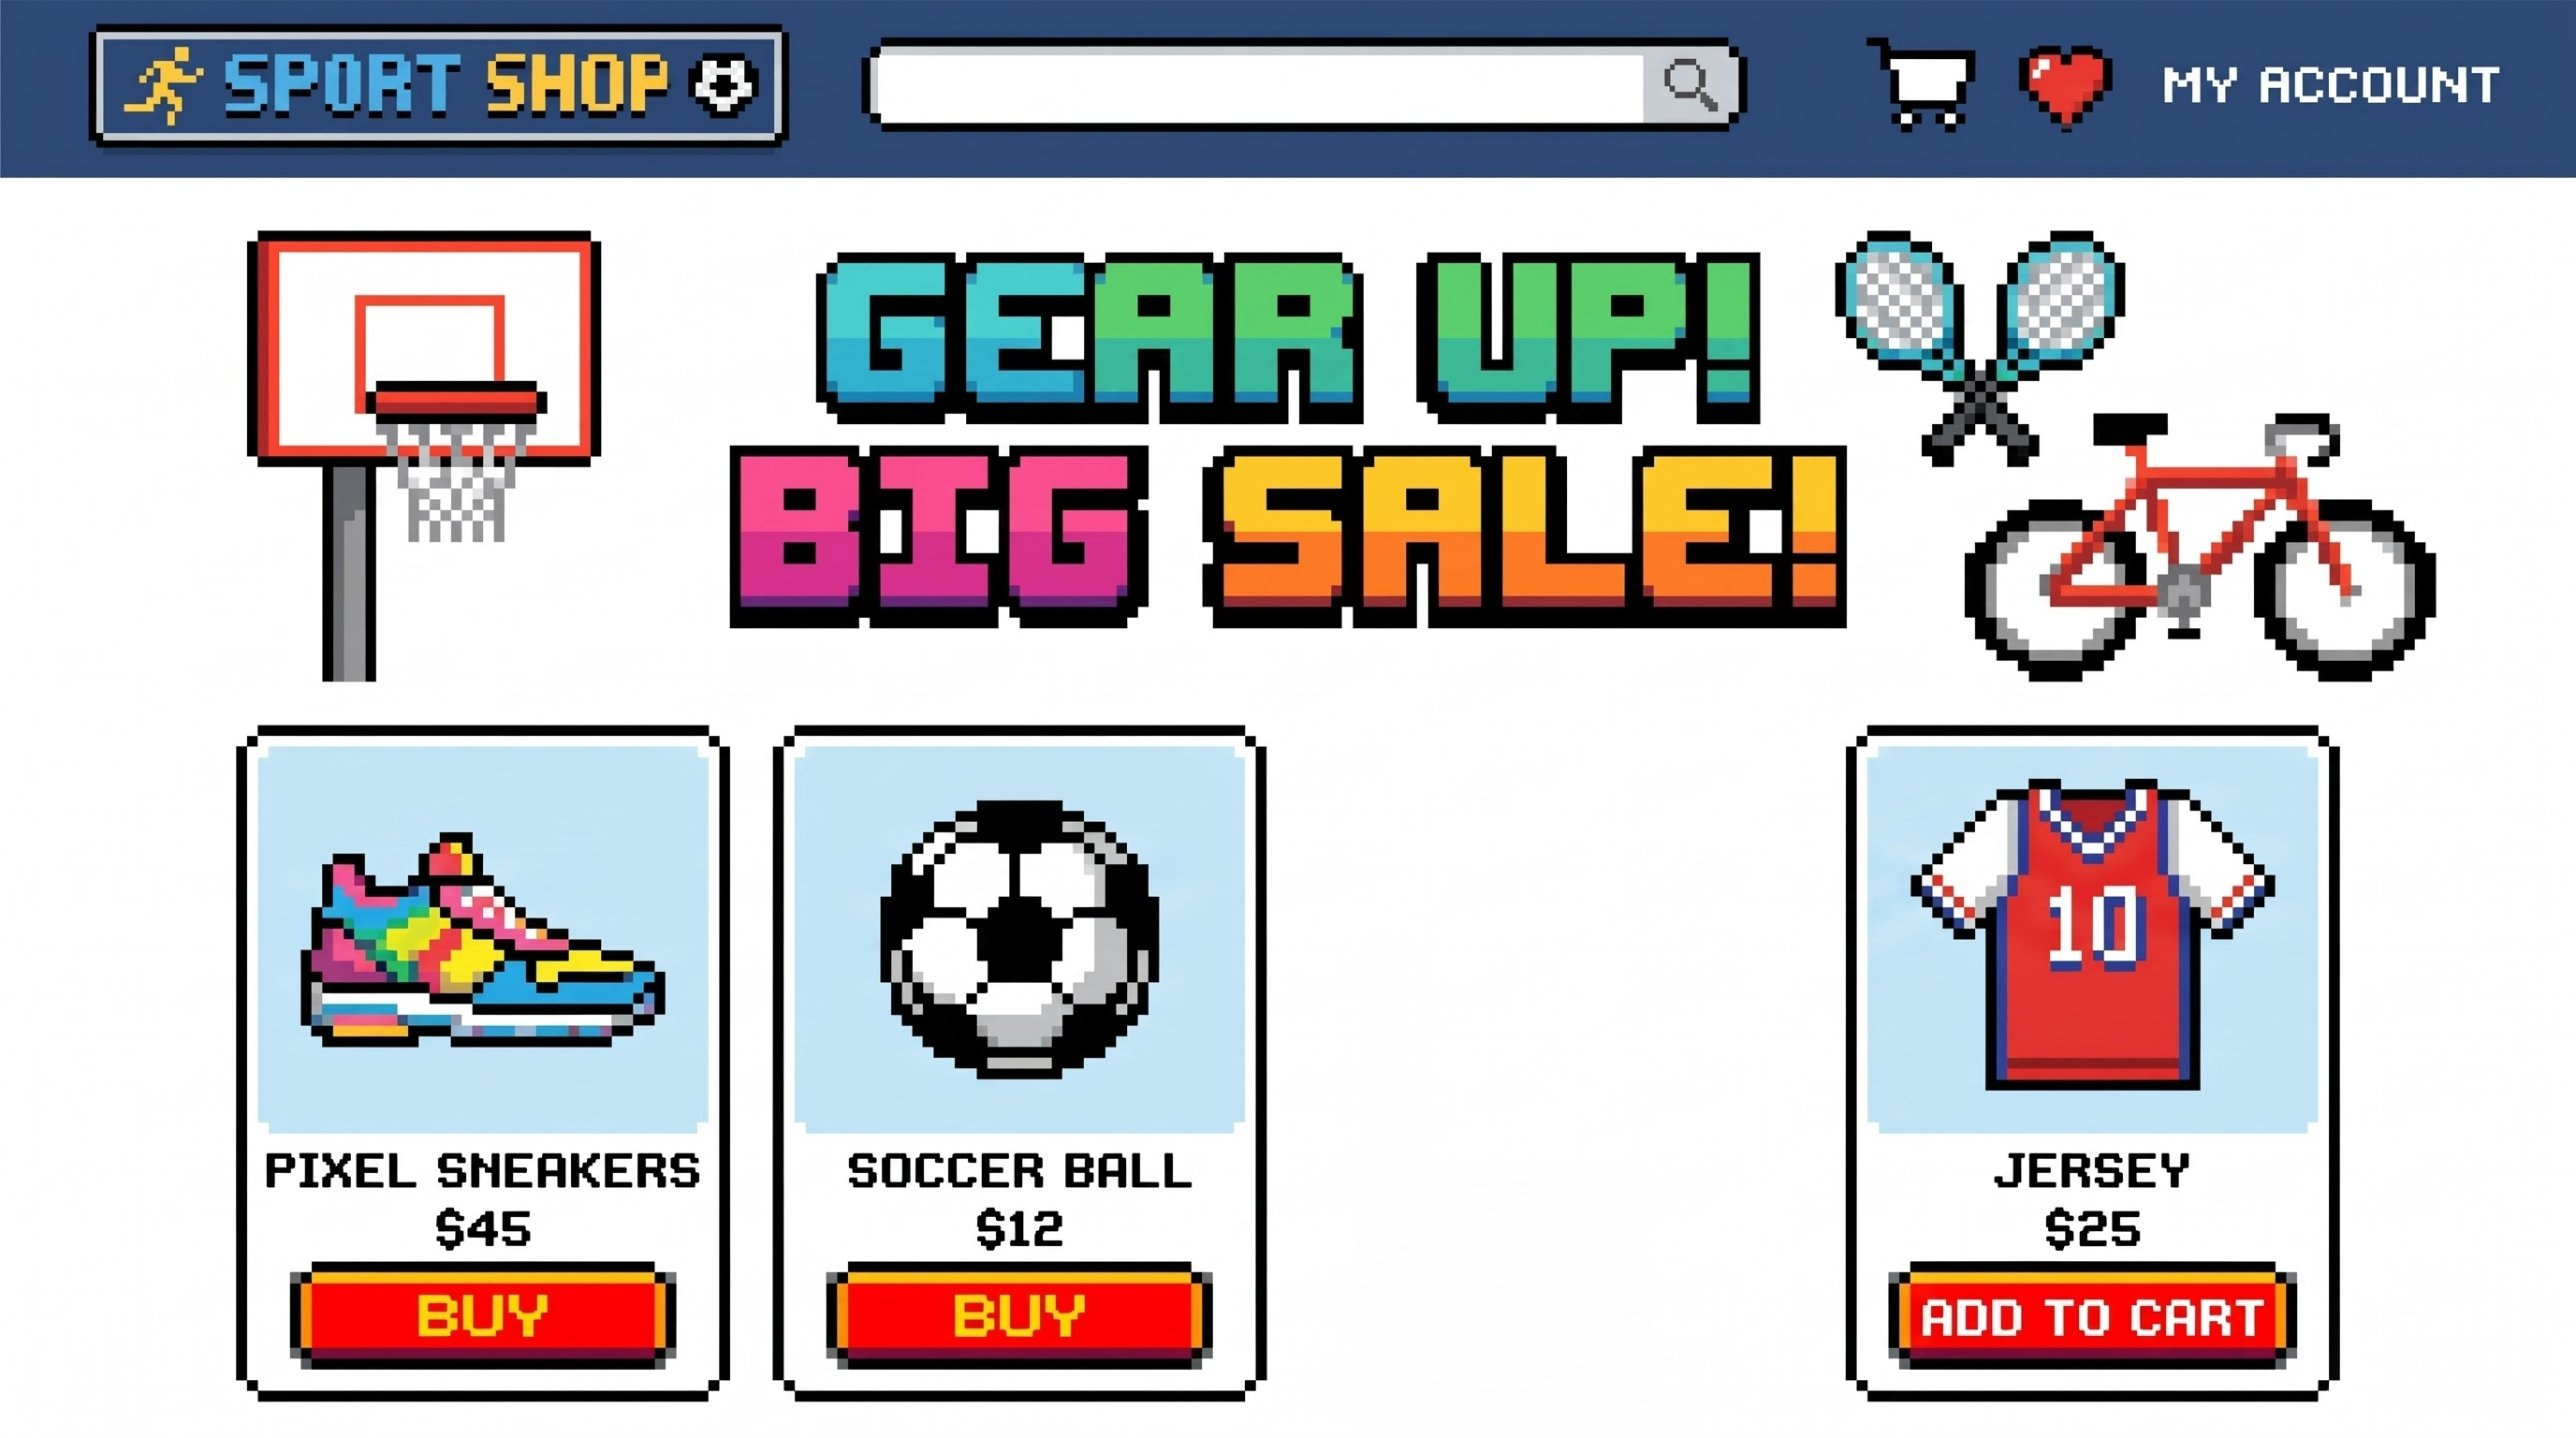
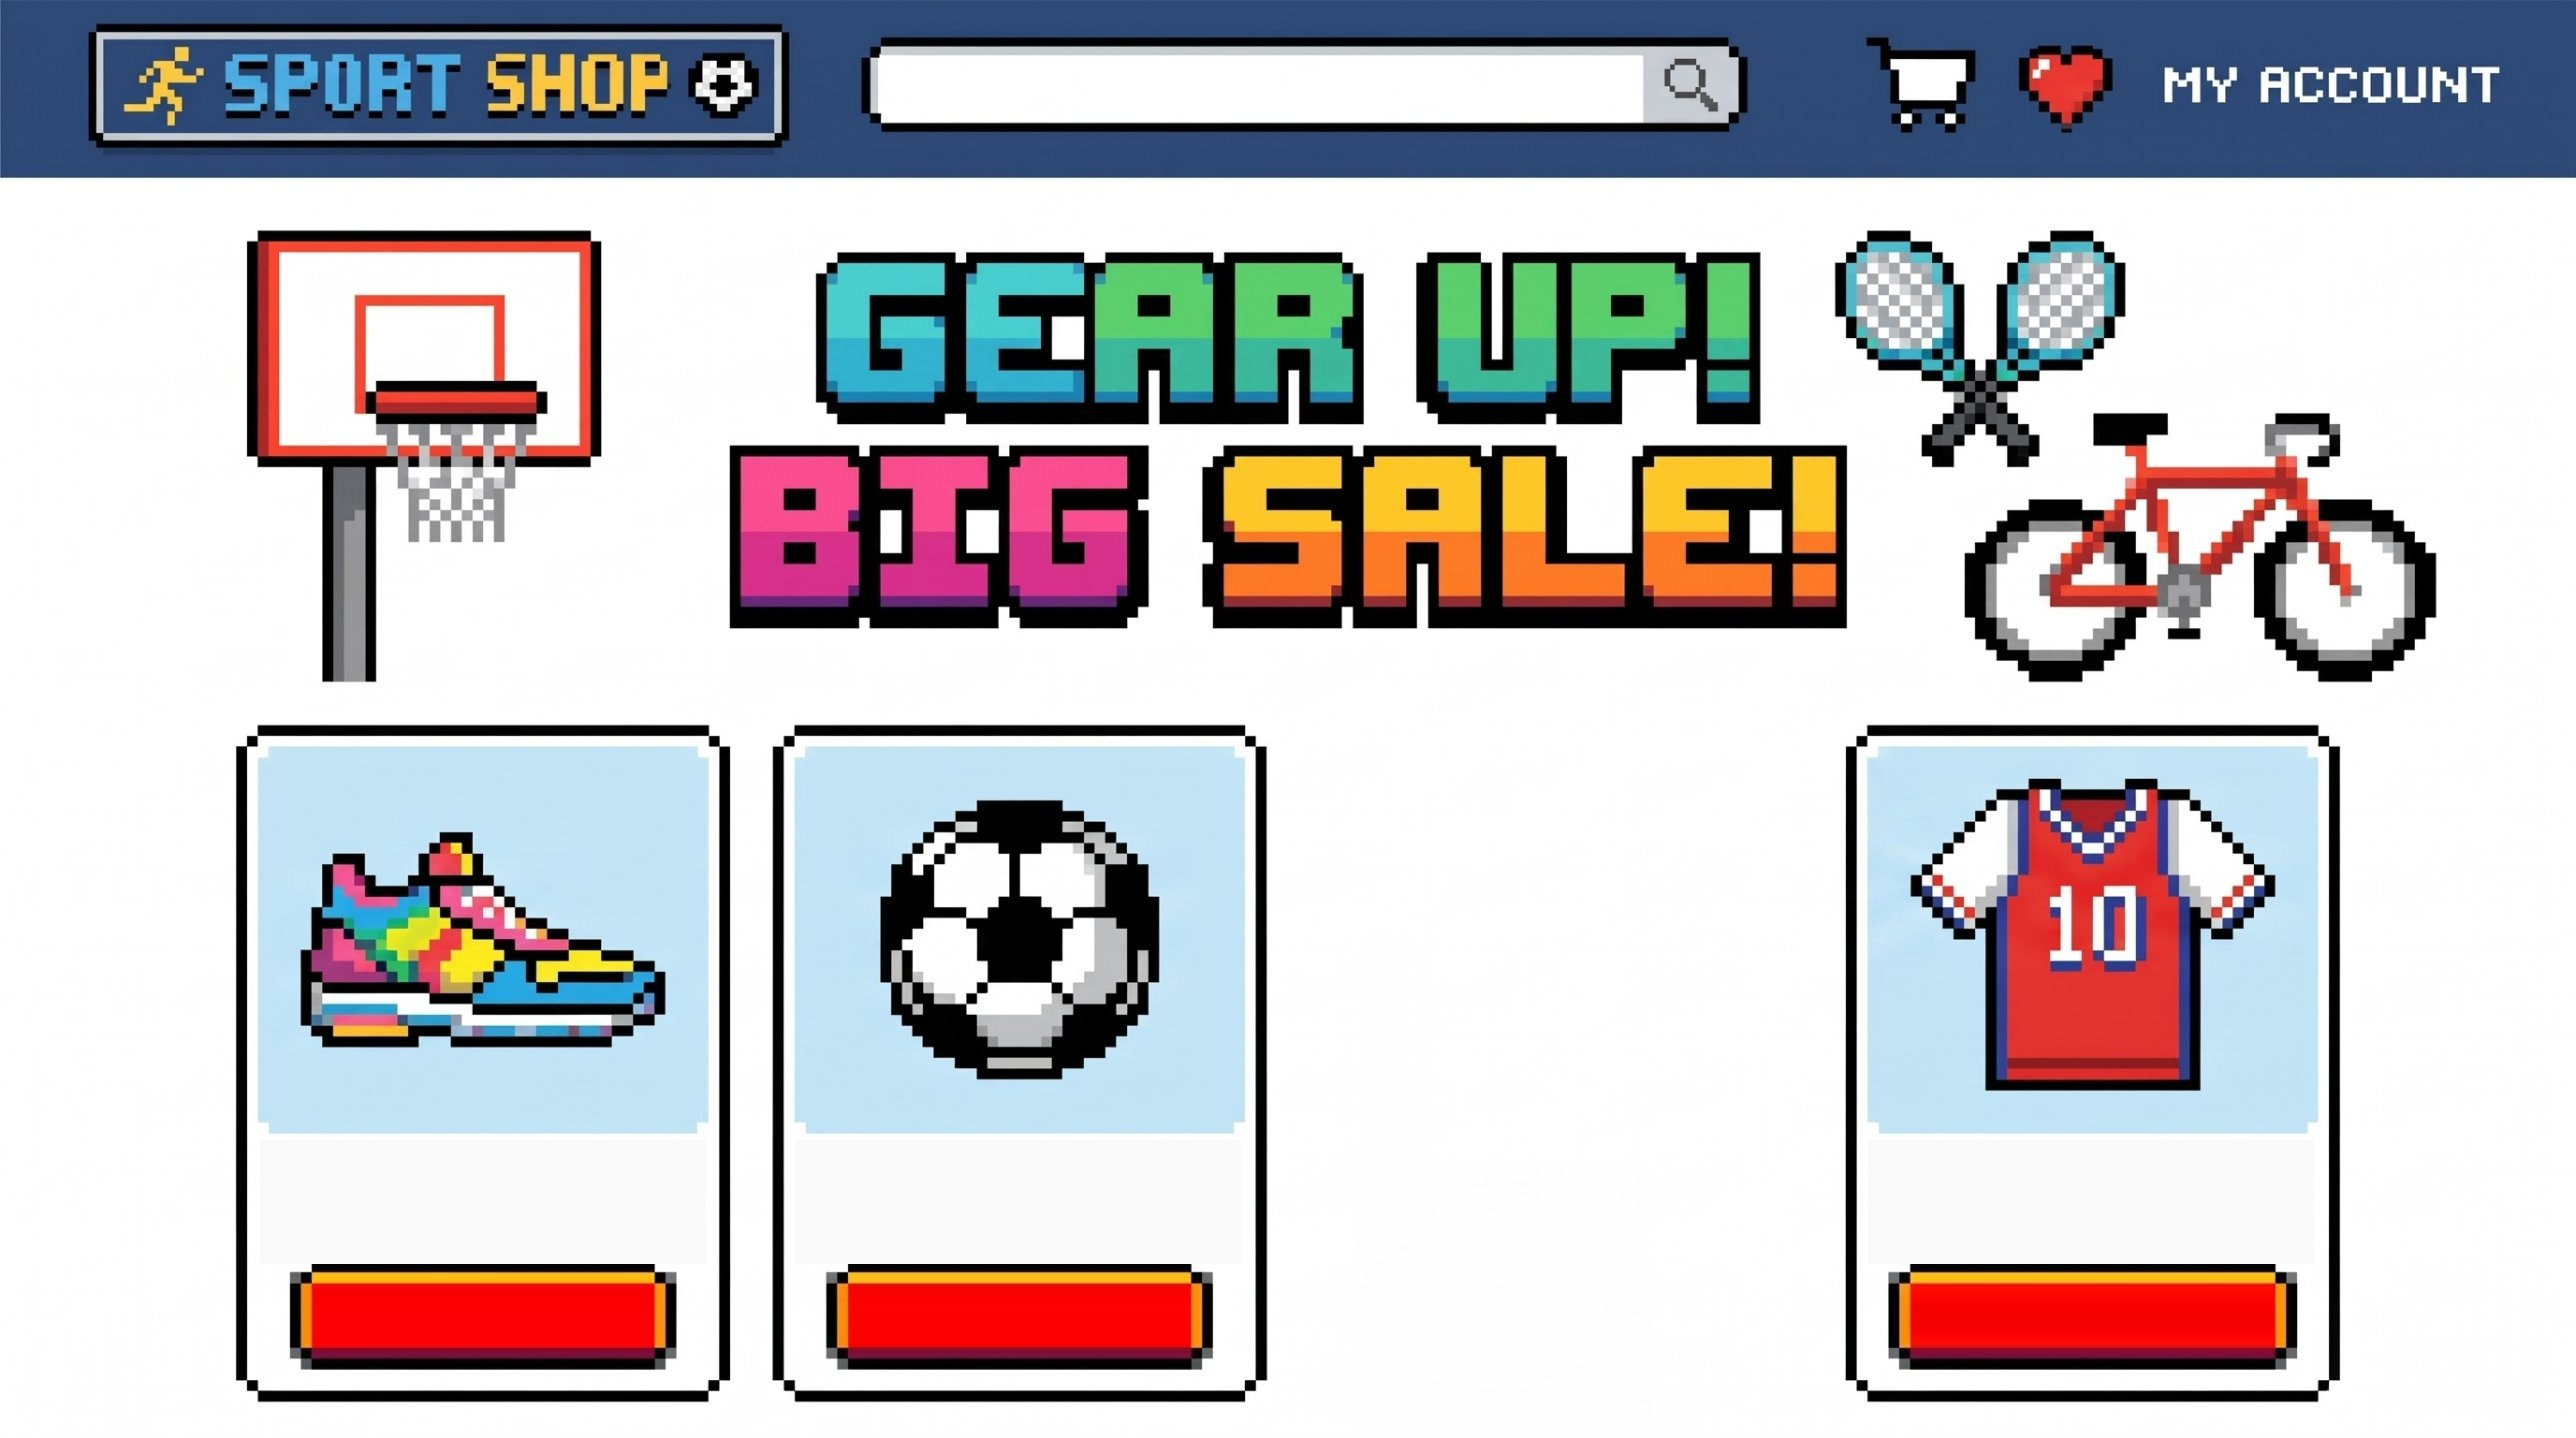
Sklep: napisy BUTY/PIŁKA/KOSZULKA i WEJDŹ (EN: SNEAKERS/FOOTBALL/JERSEY, ENTER), bez cen; w koszulkach strzałka do sklepu i WYJDŹ
Claude-Session: https://claude.ai/code/session_01Y9XNosS9qXxorLv9Jh2D4n

Changed region(s): [[0.7453, 0.7955, 0.9006, 0.9485], [0.0932, 0.7955, 0.2795, 0.9485], [0.3106, 0.7955, 0.4658, 0.9485]]

diff --git a/index.html b/index.html
@@ -242,11 +242,15 @@
   #sfront .fcard { position: absolute; padding: 0; background: none; border: 0; cursor: pointer; border-radius: 6px; }
   #sfront .fcard.sel { box-shadow: 0 0 0 4px #ff3fae, 0 0 0 7px #000, 0 0 18px 6px rgba(255,63,174,.55); animation: fsel .5s steps(2) infinite; } @keyframes fsel { 50% { box-shadow: 0 0 0 4px #ff8ad0, 0 0 0 7px #000, 0 0 22px 8px rgba(255,63,174,.75); } }
   #sfront .fx { position: absolute; right: .8%; top: 1.6%; width: 4.2%; aspect-ratio: 1; font: clamp(9px, 1.3vw, 16px) "Press Start 2P", monospace; color: #fff; background: #e8302a; border: 3px solid #000; box-shadow: 0 3px 0 #000; cursor: pointer; padding: 0; }
+  #sfront .fname, #sfront .fgo { position: absolute; display: grid; place-items: center; font: 700 clamp(9px, 2.3vw, 30px) "Pixelify Sans", monospace; letter-spacing: .06em; color: #111; pointer-events: none; white-space: nowrap; }
+  #sfront .fgo { color: #ffd21a; font-size: clamp(9px, 2.5vw, 32px); text-shadow: 2px 2px 0 #8a1000; }
   #sfront .fcoin { position: absolute; left: 33.6%; top: 4.2%; font: clamp(9px, 1.3vw, 15px) "Press Start 2P", monospace; color: #1a1030; pointer-events: none; }
   #jshop { position: fixed; inset: 0; z-index: 41; background: #000; overflow: hidden; } #jshop[hidden] { display: none; }
   .side90.dark { background-color: #0a0a0e; } #jshop .side90.l { border-right-color: #000; } #jshop .side90.r { border-left-color: #000; }
   #jshop .jbox { position: absolute; left: 50%; top: 50%; width: min(100vw, 177.78vh); aspect-ratio: 16 / 9; max-height: 100vh; transform: translate(-50%, -50%); background: #fff; box-shadow: 0 0 0 4px #000, 0 0 30px 12px rgba(0,0,0,.9), inset 18px 0 20px -12px rgba(0,0,0,.45), inset -18px 0 20px -12px rgba(0,0,0,.45); display: flex; flex-direction: column; z-index: 1; }
   #jshop .jtop { display: flex; align-items: center; gap: 12px; padding: 1.6% 2.2% 0; } #jshop .jtitle { flex: 1; font: clamp(10px, 1.7vw, 20px) "Press Start 2P", monospace; color: #1a1030; }
+  #jshop .jback { width: clamp(30px, 4.4vw, 52px); aspect-ratio: 133 / 122; background: url(arrow_l.png?v=1) center / 100% 100% no-repeat; border: 0; padding: 0; cursor: pointer; image-rendering: pixelated; }
+  #jshop .jexit { font: clamp(8px, 1.1vw, 13px) "Press Start 2P", monospace; padding: .6em .9em; color: #fff; background: #e8302a; border: 3px solid #1a1030; box-shadow: 0 3px 0 #1a1030; cursor: pointer; white-space: nowrap; }
   #jshop .coin { font: clamp(9px, 1.3vw, 15px) "Press Start 2P", monospace; color: #1a1030; } #jshop .x { position: static; }
   #jshop .jstage { flex: 1; min-height: 0; display: flex; align-items: center; justify-content: center; gap: 4%; touch-action: pan-y; }
   #jshop #jimg { height: 100%; max-width: 62%; object-fit: contain; image-rendering: pixelated; }
@@ -728,9 +732,9 @@
 <div class="setov" id="staty" hidden><div class="setp" role="dialog" aria-label="Statystyki"><h2>STATYSTYKI <small id="stwho"></small><button class="x" id="stx" aria-label="Zamknij">X</button></h2>
   <div class="stbody"><div class="bbox"><div class="bwin"><div class="bwater"><i></i></div></div><img src="bidon.png?v=1" alt="Bidon"><div class="bpts">0/100</div></div>
     <div class="stcol"><div id="strows"></div><p class="sthint" id="sthint"></p><button class="stok" id="stok">WLEJ ▶</button></div></div></div></div>
-<div id="sfront" hidden><div class="side90 l dark"></div><div class="side90 r dark"></div><div class="fbox"><img src="sklep_bg.jpg?v=1" alt="Sklep"><button class="fcard" data-k="boots" style="left:9.24%;top:50.49%;width:19.02%;height:47.01%" aria-label="boots"></button><button class="fcard" data-k="ball" style="left:30.01%;top:50.49%;width:19.10%;height:47.01%" aria-label="ball"></button><button class="fcard" data-k="shirts" style="left:71.66%;top:50.49%;width:19.10%;height:47.01%" aria-label="shirts"></button><button class="fx" id="fx" aria-label="Zamknij">X</button><span class="coin fcoin" id="coinF">0</span></div></div>
+<div id="sfront" hidden><div class="side90 l dark"></div><div class="side90 r dark"></div><div class="fbox"><img src="sklep_bg.jpg?v=2" alt="Sklep"><button class="fcard" data-k="boots" style="left:9.24%;top:50.49%;width:19.02%;height:47.01%" aria-label="boots"></button><button class="fcard" data-k="ball" style="left:30.01%;top:50.49%;width:19.10%;height:47.01%" aria-label="ball"></button><button class="fcard" data-k="shirts" style="left:71.66%;top:50.49%;width:19.10%;height:47.01%" aria-label="shirts"></button><b class="fname" data-n="boots" style="left:10.09%;top:79.97%;width:17.31%;height:6.95%"></b><b class="fgo" style="left:12.15%;top:88.46%;width:13.20%;height:5.56%"></b><b class="fname" data-n="ball" style="left:30.86%;top:79.97%;width:17.31%;height:6.95%"></b><b class="fgo" style="left:32.92%;top:88.46%;width:13.20%;height:5.56%"></b><b class="fname" data-n="shirts" style="left:72.52%;top:79.97%;width:17.31%;height:6.95%"></b><b class="fgo" style="left:74.57%;top:88.46%;width:13.20%;height:5.56%"></b><button class="fx" id="fx" aria-label="Zamknij">X</button><span class="coin fcoin" id="coinF">0</span></div></div>
 <div id="jshop" hidden><div class="side90 l dark"></div><div class="side90 r dark"></div><div class="jbox">
-  <div class="jtop"><b class="jtitle">SKLEP · KOSZULKI</b><span class="coin" id="coinJ">0</span><button class="x" id="jx" aria-label="Zamknij">X</button></div>
+  <div class="jtop"><button class="jback" id="jback" aria-label="Wróć do sklepu"></button><b class="jtitle" id="jtitle">SKLEP · KOSZULKI</b><span class="coin" id="coinJ">0</span><button class="jexit" id="jx" aria-label="Wyjdź ze sklepu">⏻ <span id="jxt">WYJDŹ</span></button></div>
   <div class="jstage"><button class="jarrow l" id="jprev" aria-label="Poprzednia"></button><img id="jimg" alt="Koszulka"><button class="jarrow r" id="jnext" aria-label="Następna"></button></div>
   <div class="jbar"><span class="jnum" id="jnum">1/37</span><b class="jname" id="jname"></b><button class="jbuy" id="jbuy">KUP</button></div></div></div>
 <div id="szatnia" hidden><div class="side90 l"></div><div class="side90 r"></div><div class="sbg"></div><div class="sbox"><img src="szatnia_base.jpg?v=2" alt="">
@@ -1081,15 +1085,18 @@
       else P.shirt = P.shirt === k ? null : k;
       PROG.save(); draw(); window.SZ_REFRESH?.(); };
     let sx = null; $('jimg').addEventListener('pointerdown', (e) => { sx = e.clientX; }); $('jimg').addEventListener('pointerup', (e) => { if (sx != null && Math.abs(e.clientX - sx) > 40) go(e.clientX < sx ? 1 : -1); sx = null; });
-    addEventListener('keydown', (e) => { if ($('jshop').hidden) return; if (e.key === 'ArrowLeft') go(-1); else if (e.key === 'ArrowRight') go(1); else if (e.key === 'Escape') $('jx').click(); });
-    $('jx').onclick = () => { $('jshop').hidden = true; $('coinF').textContent = PROG.get().coins; $('sfront').querySelectorAll('.fcard').forEach((c) => c.classList.remove('sel')); };
-    return { preload, open() { preload(); const P = PROG.get(), k = ORDER.findIndex((_, n) => id(n) === P.shirt); if (k >= 0) i = k; $('jshop').hidden = false; draw(); } }; })();
+    addEventListener('keydown', (e) => { if ($('jshop').hidden) return; if (e.key === 'ArrowLeft') go(-1); else if (e.key === 'ArrowRight') go(1); else if (e.key === 'Escape') $('jback').click(); });
+    const back = () => { $('jshop').hidden = true; $('coinF').textContent = PROG.get().coins; $('sfront').querySelectorAll('.fcard').forEach((c) => c.classList.remove('sel')); };
+    $('jback').onclick = back; $('jx').onclick = () => { $('jshop').hidden = true; $('sfront').hidden = true; window.SZ_REFRESH?.(); };
+    return { preload, open() { preload(); $('jtitle').textContent = EN() ? 'SHOP · JERSEYS' : 'SKLEP · KOSZULKI'; $('jxt').textContent = EN() ? 'EXIT' : 'WYJDŹ'; const P = PROG.get(), k = ORDER.findIndex((_, n) => id(n) === P.shirt); if (k >= 0) i = k; $('jshop').hidden = false; draw(); } }; })();
   window.SFRONT = (() => { const F = $('sfront'), EN = () => window.LANG === 'en';
     const soon = () => { $('soont').textContent = EN() ? 'COMING SOON' : 'WKRÓTCE'; $('soons').textContent = EN() ? 'This part of the shop is still being built.' : 'Ta część sklepu jeszcze się buduje.'; $('soon').hidden = false; };
     F.querySelectorAll('.fcard').forEach((b) => (b.onclick = () => { F.querySelectorAll('.fcard').forEach((c) => c.classList.toggle('sel', c === b)); window.SZFX?.drip?.();
       setTimeout(() => { if (b.dataset.k === 'shirts') window.JSHOP.open(); else soon(); }, 260); }));
     $('fx').onclick = () => { F.hidden = true; window.SZ_REFRESH?.(); };
-    return { open() { window.JSHOP.preload(); $('coinF').textContent = PROG.get().coins; F.querySelectorAll('.fcard').forEach((c) => c.classList.remove('sel')); F.hidden = false; } }; })();
+    const NAMES_F = { boots: ['BUTY', 'SNEAKERS'], ball: ['PIŁKA', 'FOOTBALL'], shirts: ['KOSZULKA', 'JERSEY'] };
+    const labels = () => { F.querySelectorAll('.fname').forEach((b) => (b.textContent = NAMES_F[b.dataset.n][EN() ? 1 : 0])); F.querySelectorAll('.fgo').forEach((b) => (b.textContent = EN() ? 'ENTER' : 'WEJDŹ')); };
+    return { open() { labels(); window.JSHOP.preload(); $('coinF').textContent = PROG.get().coins; F.querySelectorAll('.fcard').forEach((c) => c.classList.remove('sel')); F.hidden = false; } }; })();
   // the player's room is not finished yet: it opens only with the code
   { let code = '', target = 'room'; const disp = $('rcdisp'), msg = $('rcmsg'), Lc = (pl, en) => (window.LANG === 'en' ? en : pl);
     // one keypad for the room (2708) and the shop (4545)
